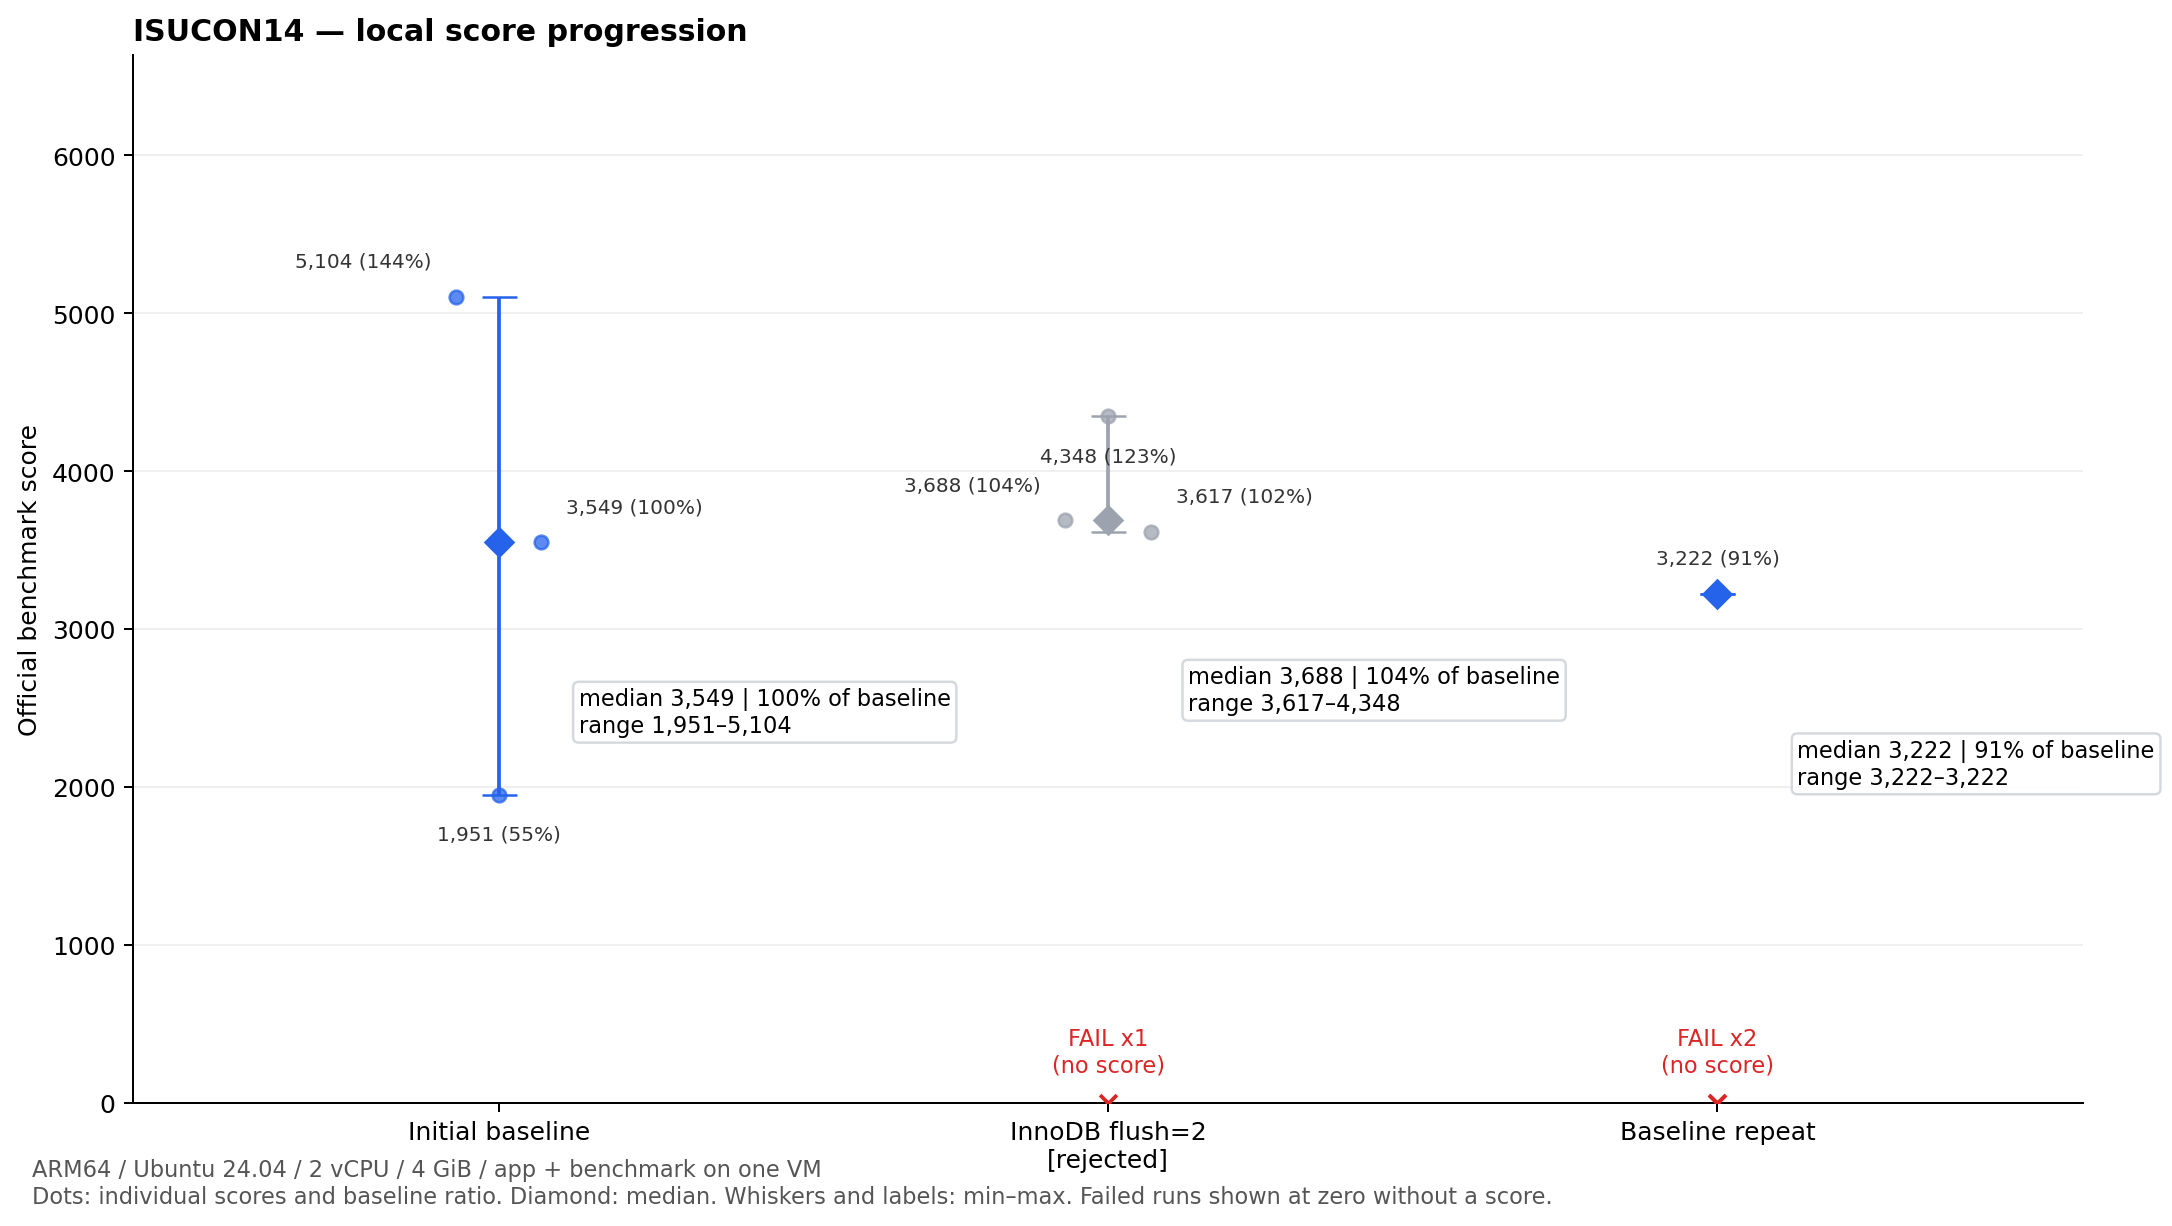
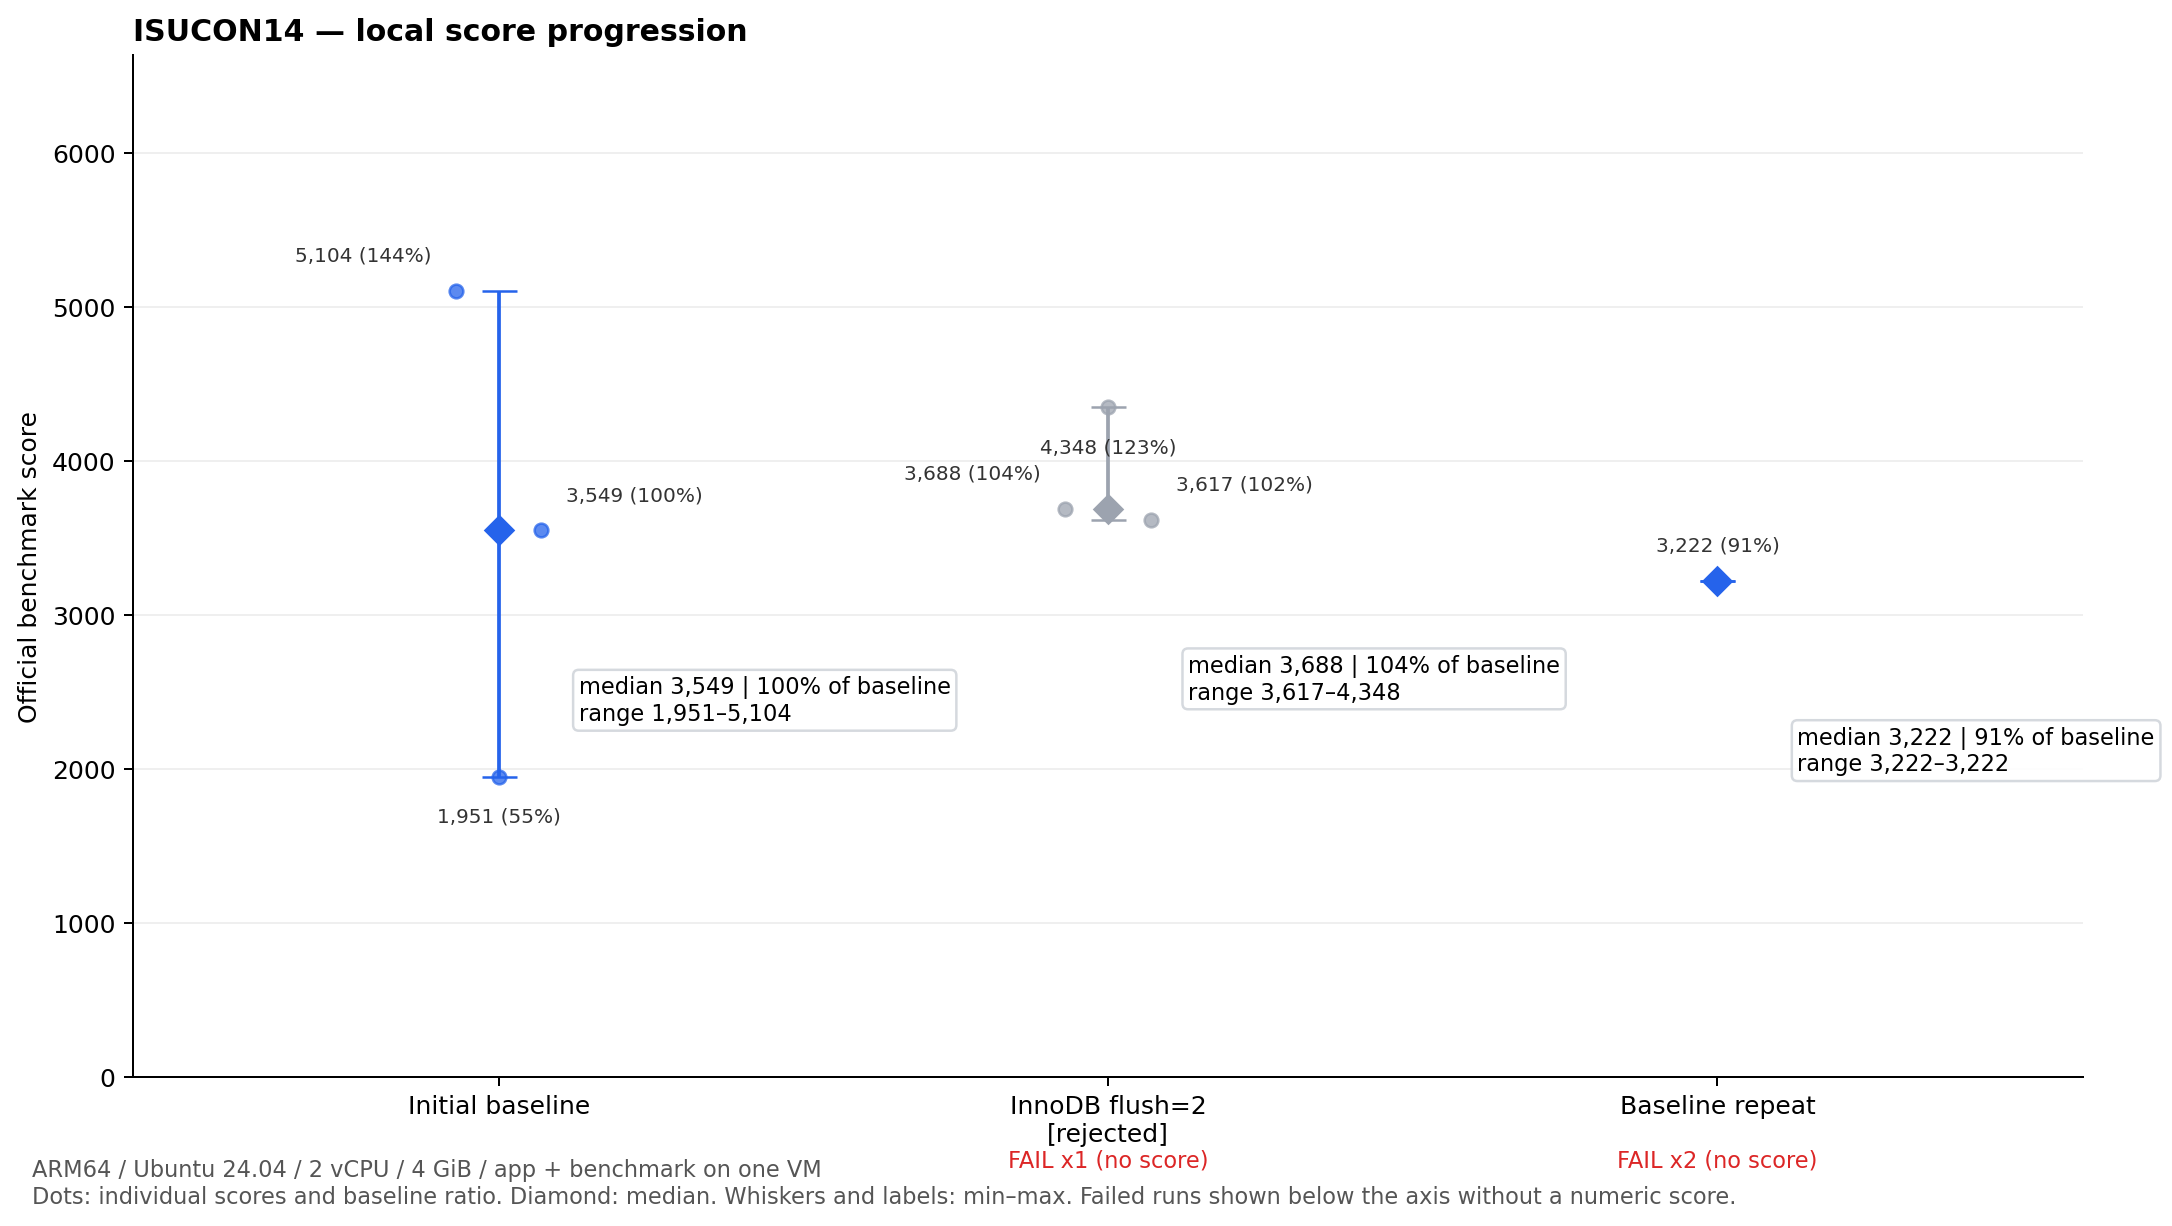
再構築後の基準段階と失敗表示を明確化

diff --git a/local-benchmark/tools/plot_scores.py b/local-benchmark/tools/plot_scores.py
@@ -20,7 +20,8 @@ with (ROOT / "scores.csv").open("w") as f:
     writer.writerows({key: r.get(key) for key in fields} for r in records)
 
 fig, ax = plt.subplots(figsize=(12, 6.5), layout="constrained")
-baseline = [r["score"] for r in records if r["stage"] == "baseline" and r["status"] == "passed"]
+reference_stage = "rebuilt-baseline" if any(r["stage"] == "rebuilt-baseline" and r["status"] == "passed" for r in records) else "baseline"
+baseline = [r["score"] for r in records if r["stage"] == reference_stage and r["status"] == "passed"]
 base = statistics.median(baseline) if baseline else None
 max_score = max([r["score"] for r in records if r.get("score") is not None] or [1])
 for x, stage in enumerate(present):
@@ -46,8 +47,9 @@ for x, stage in enumerate(present):
         )
     failures = sum(r["status"] == "failed" for r in rows)
     if failures:
-        ax.scatter([x] * failures, [0] * failures, marker="x", color="#dc2626", s=45, zorder=5)
-        ax.text(x, .03, f"FAIL x{failures}\n(no score)", transform=ax.get_xaxis_transform(), ha="center", color="#dc2626", fontsize=9)
+        ax.annotate(f"FAIL x{failures} (no score)", (x, 0), xycoords=ax.get_xaxis_transform(),
+                    xytext=(0, -36), textcoords="offset points", ha="center",
+                    color="#dc2626", fontsize=9, annotation_clip=False)
 
 ax.set_xticks(range(len(present)), [stage["label"] + ("\n[rejected]" if stage["decision"] == "rejected" else "") for stage in present])
 ax.set_ylim(0, max_score * 1.3)
@@ -56,6 +58,6 @@ ax.set_ylabel("Official benchmark score")
 ax.set_title("ISUCON14 — local score progression", loc="left", fontweight="bold")
 ax.grid(axis="y", alpha=.2)
 ax.spines[["top", "right"]].set_visible(False)
-fig.text(.01, -.02, "ARM64 / Ubuntu 24.04 / 2 vCPU / 4 GiB / app + benchmark on one VM\nDots: individual scores and baseline ratio. Diamond: median. Whiskers and labels: min–max. Failed runs shown at zero without a score.", fontsize=9, color="#555555")
+fig.text(.01, -.02, "ARM64 / Ubuntu 24.04 / 2 vCPU / 4 GiB / app + benchmark on one VM\nDots: individual scores and baseline ratio. Diamond: median. Whiskers and labels: min–max. Failed runs shown below the axis without a numeric score.", fontsize=9, color="#555555")
 fig.savefig(ROOT / "score-history.png", dpi=180, bbox_inches="tight")
 print(ROOT / "score-history.png")
